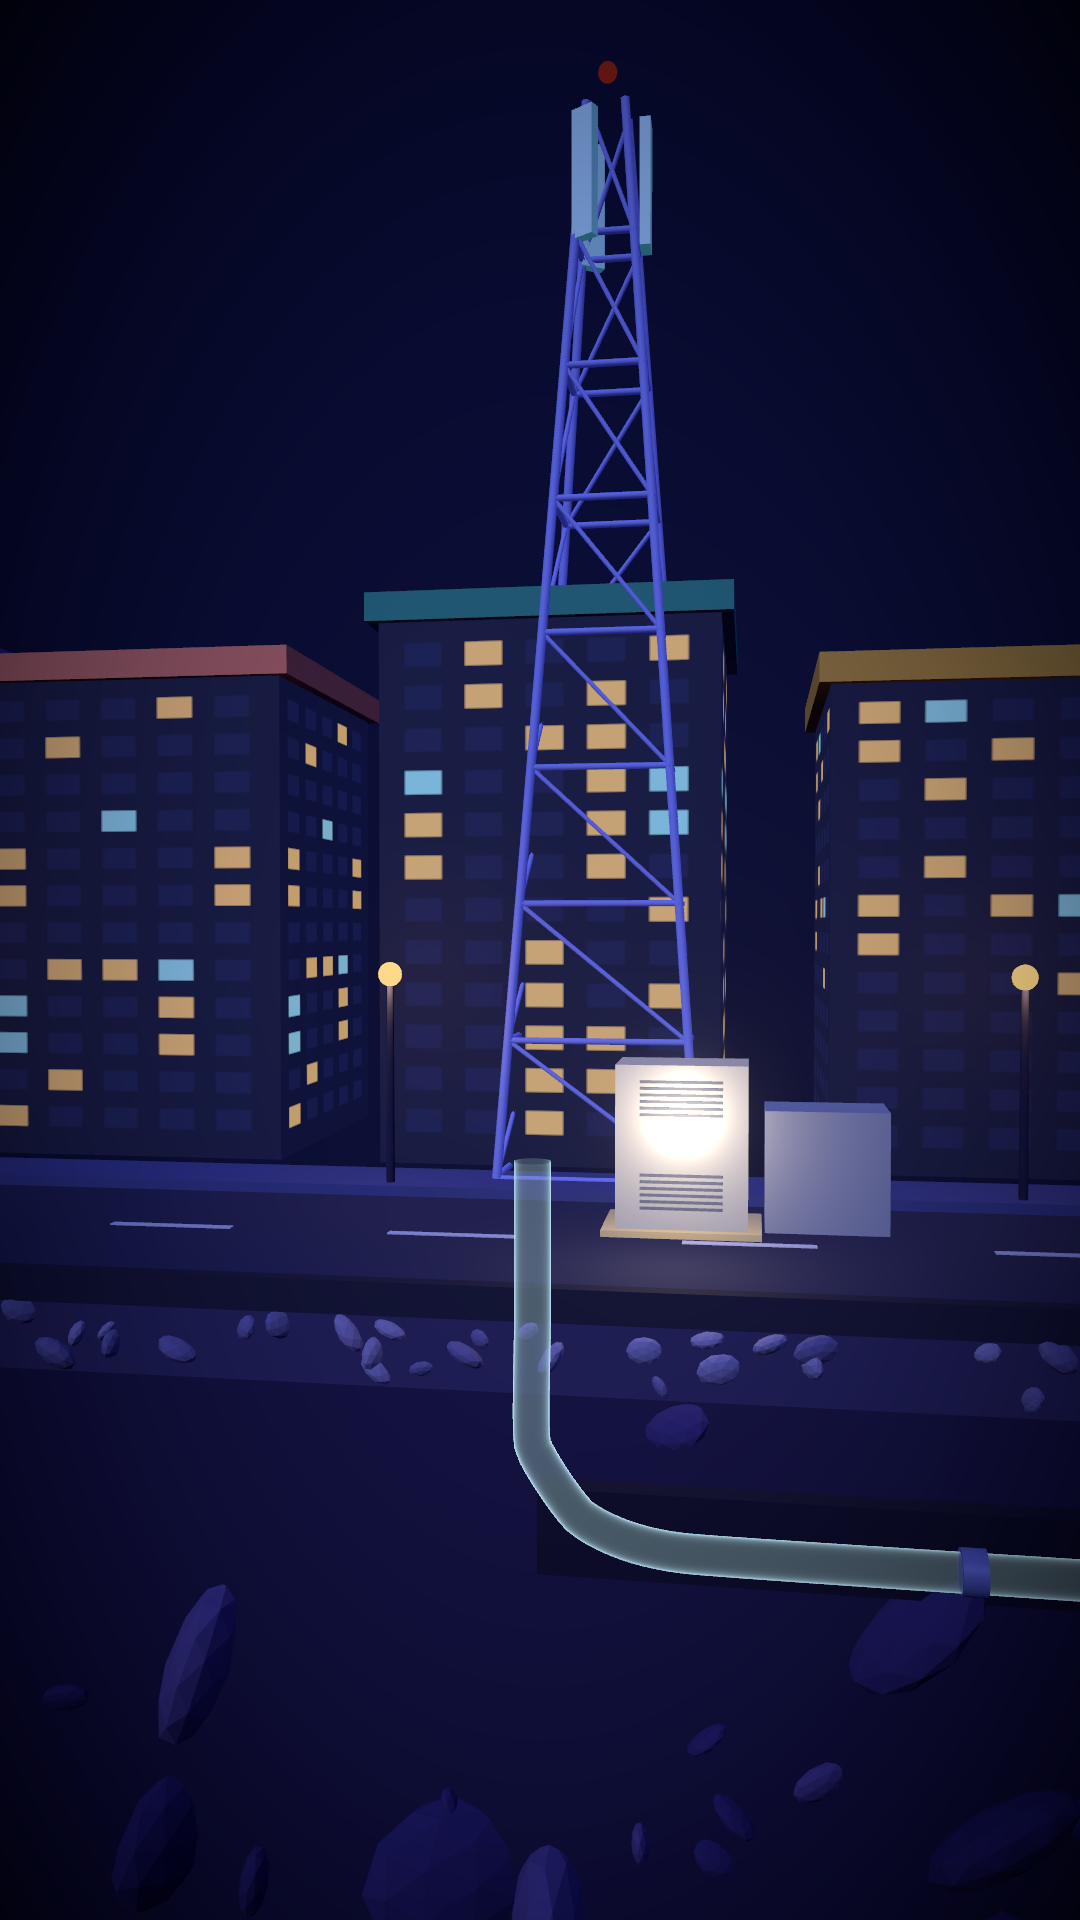
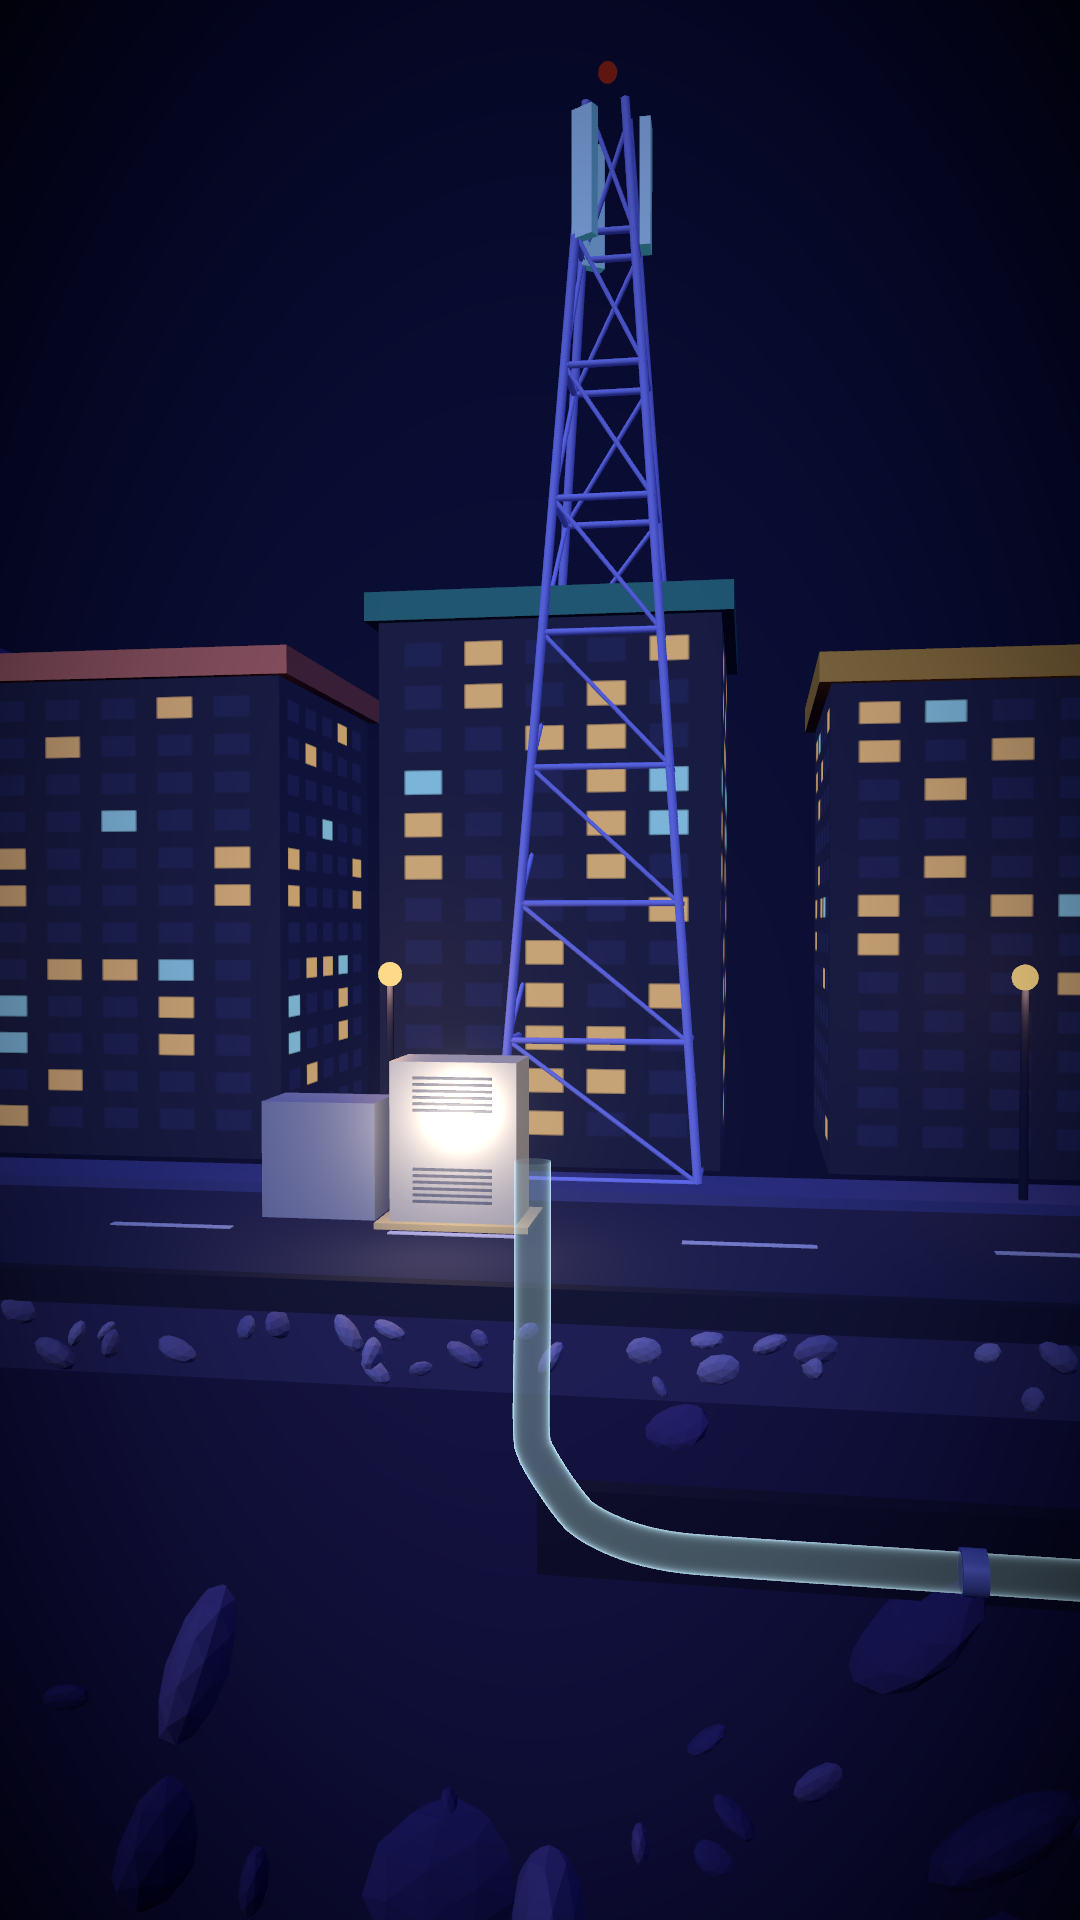
Underground scene: box to the left of the cable (stills)
Claude-Session: https://claude.ai/code/session_01GXcKc5WpkD8jhBf44cT6jS

Changed region(s): [[0.55, 0.5312, 0.825, 0.6875], [0.2444, 0.5312, 0.4889, 0.6875]]

diff --git a/internet/v3/src/v4/TowerHyd.tsx b/internet/v3/src/v4/TowerHyd.tsx
@@ -18,11 +18,11 @@ const CAMS: Record<number, { p: [number, number, number]; l: [number, number, nu
   4: { p: [TOWER.x - 3.5, BASE + 2.2, TOWER.z + 9.5], l: [TOWER.x + 1.5, BASE + 1.6, TOWER.z + 2], fov: 42 },
 };
 const Cam: React.FC<{ beat: number }> = ({ beat }) => { const { camera } = useThree(); useLayoutEffect(() => { const c = CAMS[beat], cam = camera as THREE.PerspectiveCamera; cam.position.set(...c.p); cam.fov = vfov(c.fov); cam.near = 0.05; cam.far = 400; cam.lookAt(...c.l); cam.updateProjectionMatrix(); }, [beat, camera]); return null; };
-const Cabinet: React.FC<{ at?: [number, number, number] }> = ({ at }) => (<group position={at ?? [TOWER.x + 2.4, BASE + 1.5, TOWER.z + 2.6]}>
+const Cabinet: React.FC<{ at?: [number, number, number]; flip?: boolean }> = ({ at, flip }) => (<group position={at ?? [TOWER.x + 2.4, BASE + 1.5, TOWER.z + 2.6]}>
   <mesh><boxGeometry args={[2.4, 3, 1.5]} /><meshStandardMaterial color="#aab4d8" roughness={0.55} metalness={0.3} emissive="#ffe9b0" emissiveIntensity={0.18} /></mesh>
   {[0.9, -0.8].map((y, k) => <group key={k} position={[0, y, 0.77]}>{Array.from({ length: 6 }).map((_, j) => <mesh key={j} position={[0, (j - 2.5) * 0.12, 0]}><boxGeometry args={[1.5, 0.05, 0.04]} /><meshStandardMaterial color="#6a7498" /></mesh>)}</group>)}
   <mesh position={[0, -1.55, 0]}><boxGeometry args={[2.9, 0.12, 1.9]} /><meshStandardMaterial color="#d8c9a0" /></mesh>
-  <mesh position={[2.6, -0.4, 0]}><boxGeometry args={[2.2, 2.2, 1.4]} /><meshStandardMaterial color="#9aa4c8" roughness={0.6} /></mesh>
+  <mesh position={[flip ? -2.6 : 2.6, -0.4, 0]}><boxGeometry args={[2.2, 2.2, 1.4]} /><meshStandardMaterial color="#9aa4c8" roughness={0.6} /></mesh>
   <pointLight position={[0, 0.5, 2.2]} intensity={14} color="#ffe2a0" distance={9} />
 </group>);
 const Cables: React.FC<{ beat: number }> = ({ beat }) => { const top = V(TOWER.x + 0.5, BASE + 21, TOWER.z + 0.5), foot = V(TOWER.x + 1.6, BASE + 2.3, TOWER.z + 2.6), mid = top.clone().lerp(foot, 0.5), q = new THREE.Quaternion().setFromUnitVectors(V(0, 1, 0), foot.clone().sub(top).normalize()), len = top.distanceTo(foot);
@@ -65,4 +65,4 @@ const Scene: React.FC<{ beat: number }> = ({ beat }) => (<AbsoluteFill style={{ 
 export const TwB1 = () => <Scene beat={1} />; export const TwB2 = () => <Scene beat={2} />; export const TwB3 = () => <Scene beat={3} />; export const TwB4 = () => <Scene beat={4} />;
 
 /* the box that turns radio into light, to stand at the foot of any tower scene (origin = the floor under the box) */
-export const FootBox: React.FC<{ position: [number, number, number]; scale?: number }> = ({ position, scale = 1 }) => (<group position={position} scale={scale}><Cabinet at={[0, 1.5, 0]} /></group>);
+export const FootBox: React.FC<{ position: [number, number, number]; scale?: number }> = ({ position, scale = 1 }) => (<group position={position} scale={scale}><Cabinet at={[0, 1.5, 0]} flip /></group>);

diff --git a/internet/v3/src/v4/Underground.tsx b/internet/v3/src/v4/Underground.tsx
@@ -96,7 +96,7 @@ export const Underground: React.FC = () => {
         <directionalLight position={[-6, 10, 14]} intensity={1.3} color="#c9d2ff" />
         <Street /><Ground /><Cable t={t} />
         <group position={[TX - TOWER.x, 4.5 + 0.44, -9.5 - TOWER.z]}><Tower t={t + 6.2} /></group>
-        <FootBox position={[TX + 1.9, 0.52, -3.5]} scale={0.9} />
+        <FootBox position={[TX - 1.9, 0.52, -3.5]} scale={0.9} />
         <EffectComposer><Bloom intensity={0.5} luminanceThreshold={0.86} luminanceSmoothing={0.2} mipmapBlur /><Vignette eskil={false} offset={0.22} darkness={0.75} /></EffectComposer>
       </ThreeCanvas>
       <AbsoluteFill><svg width={F.W} height={F.H}>
